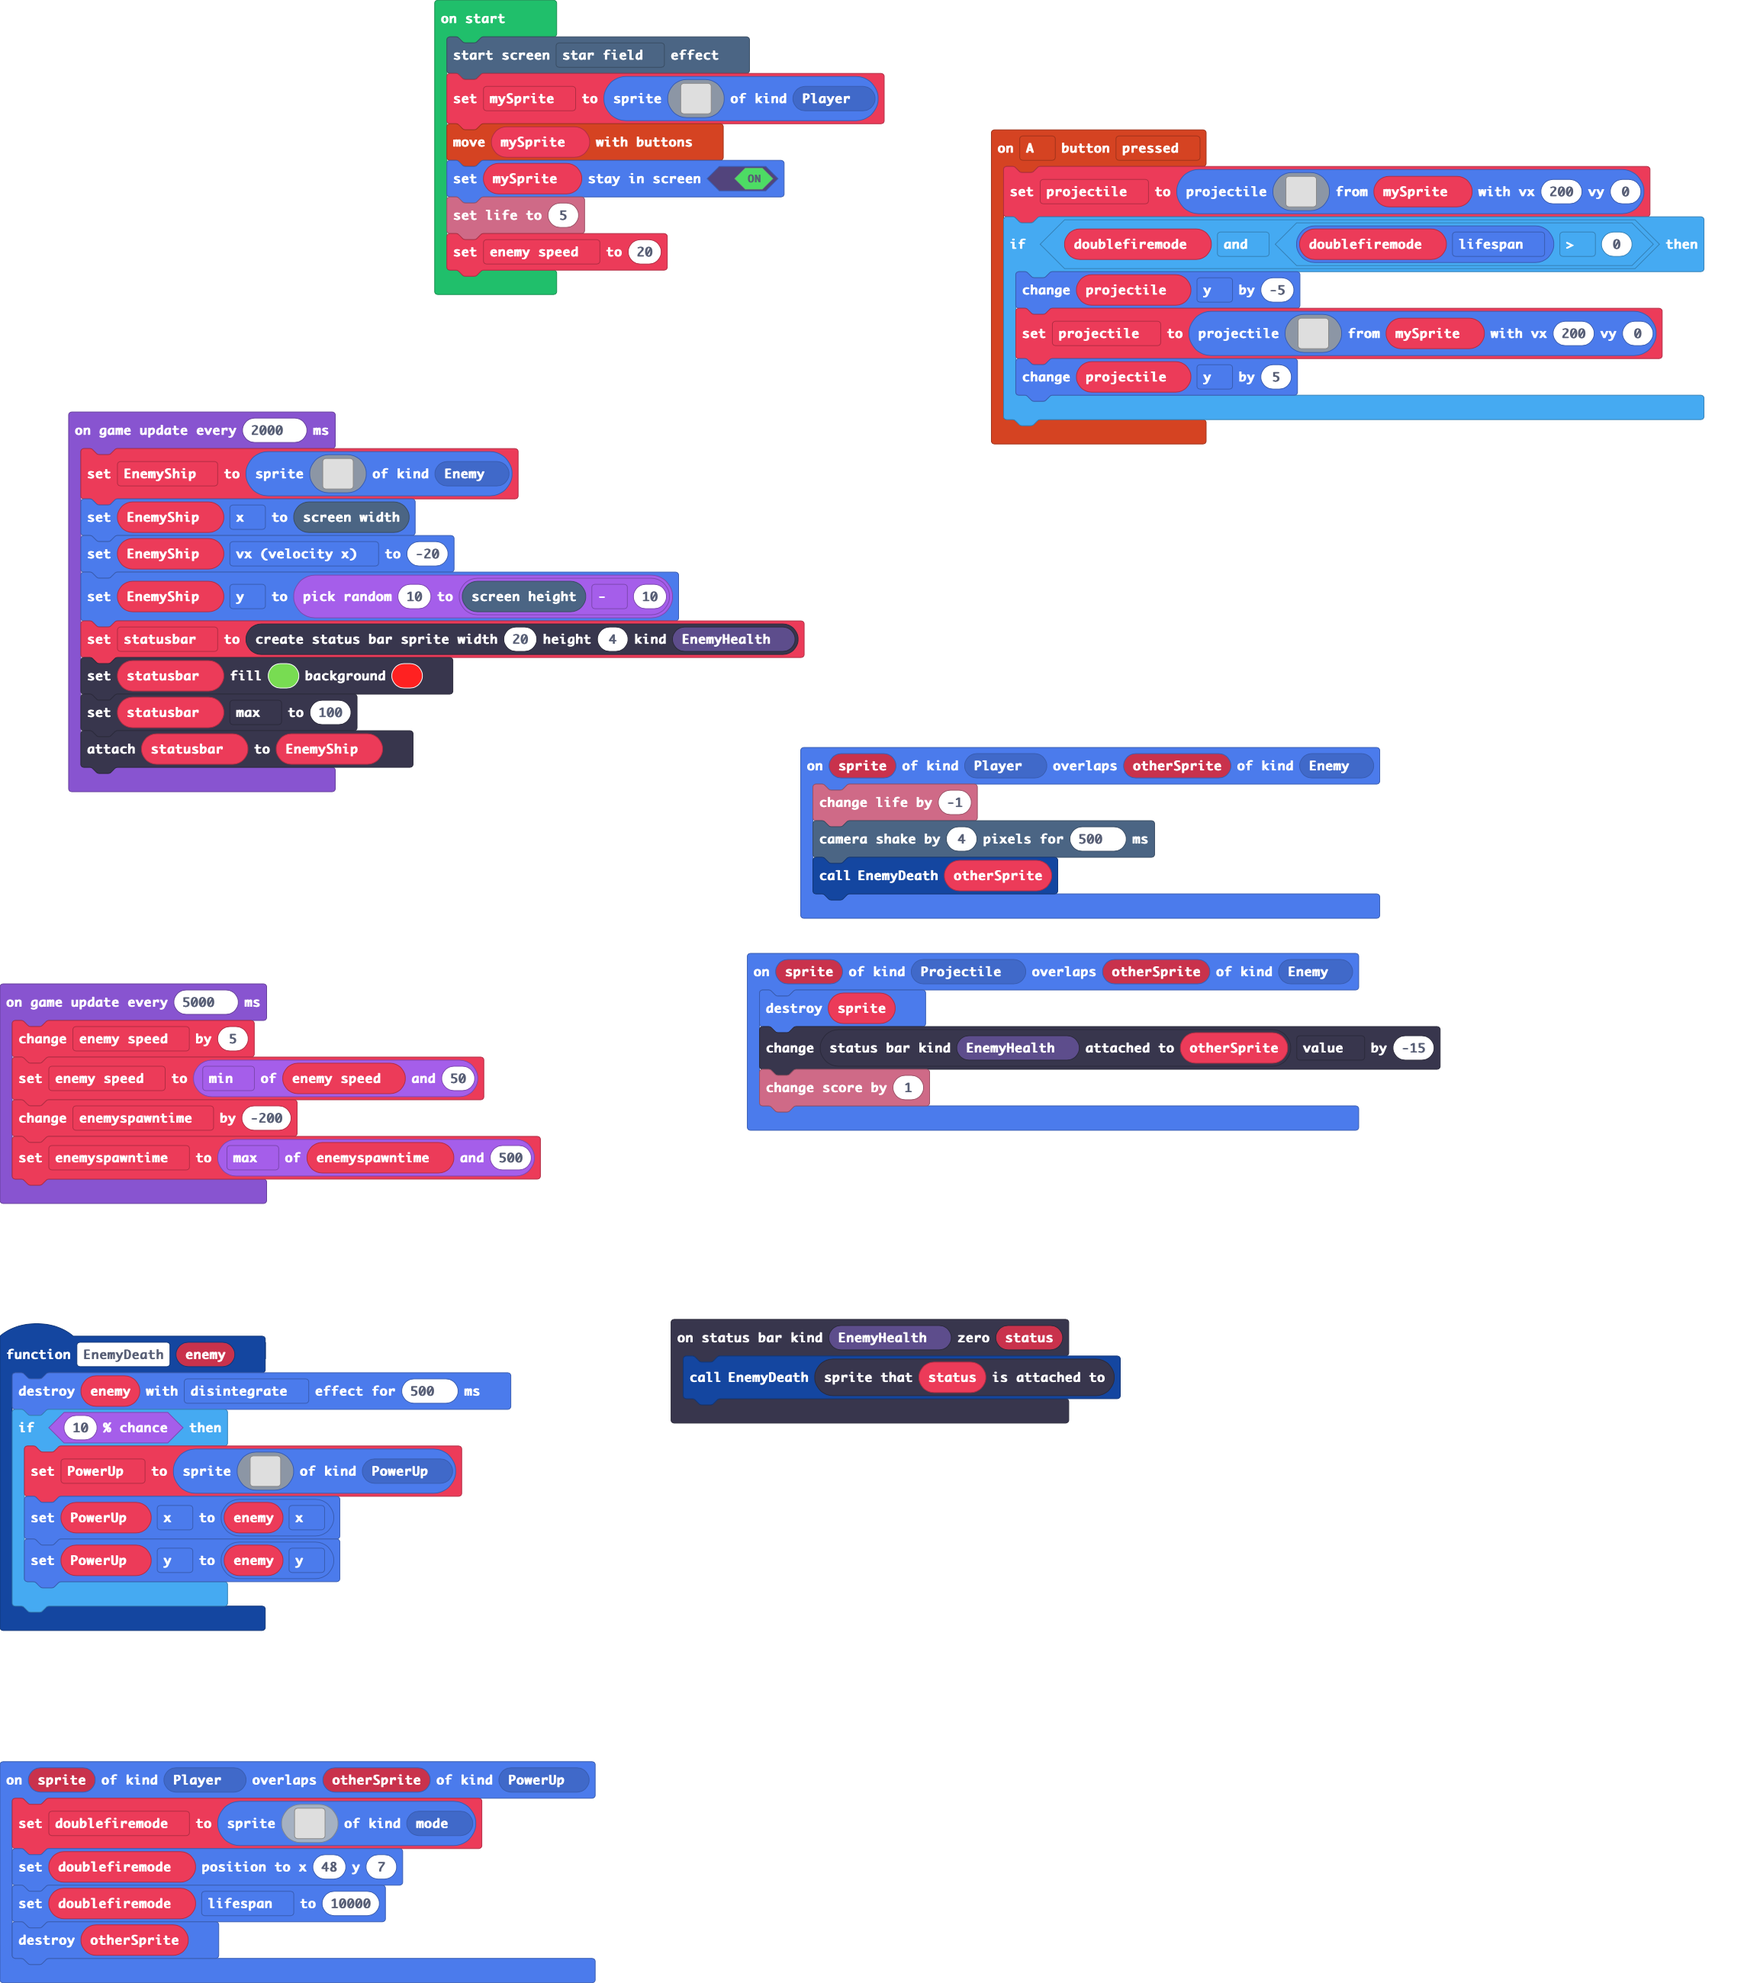
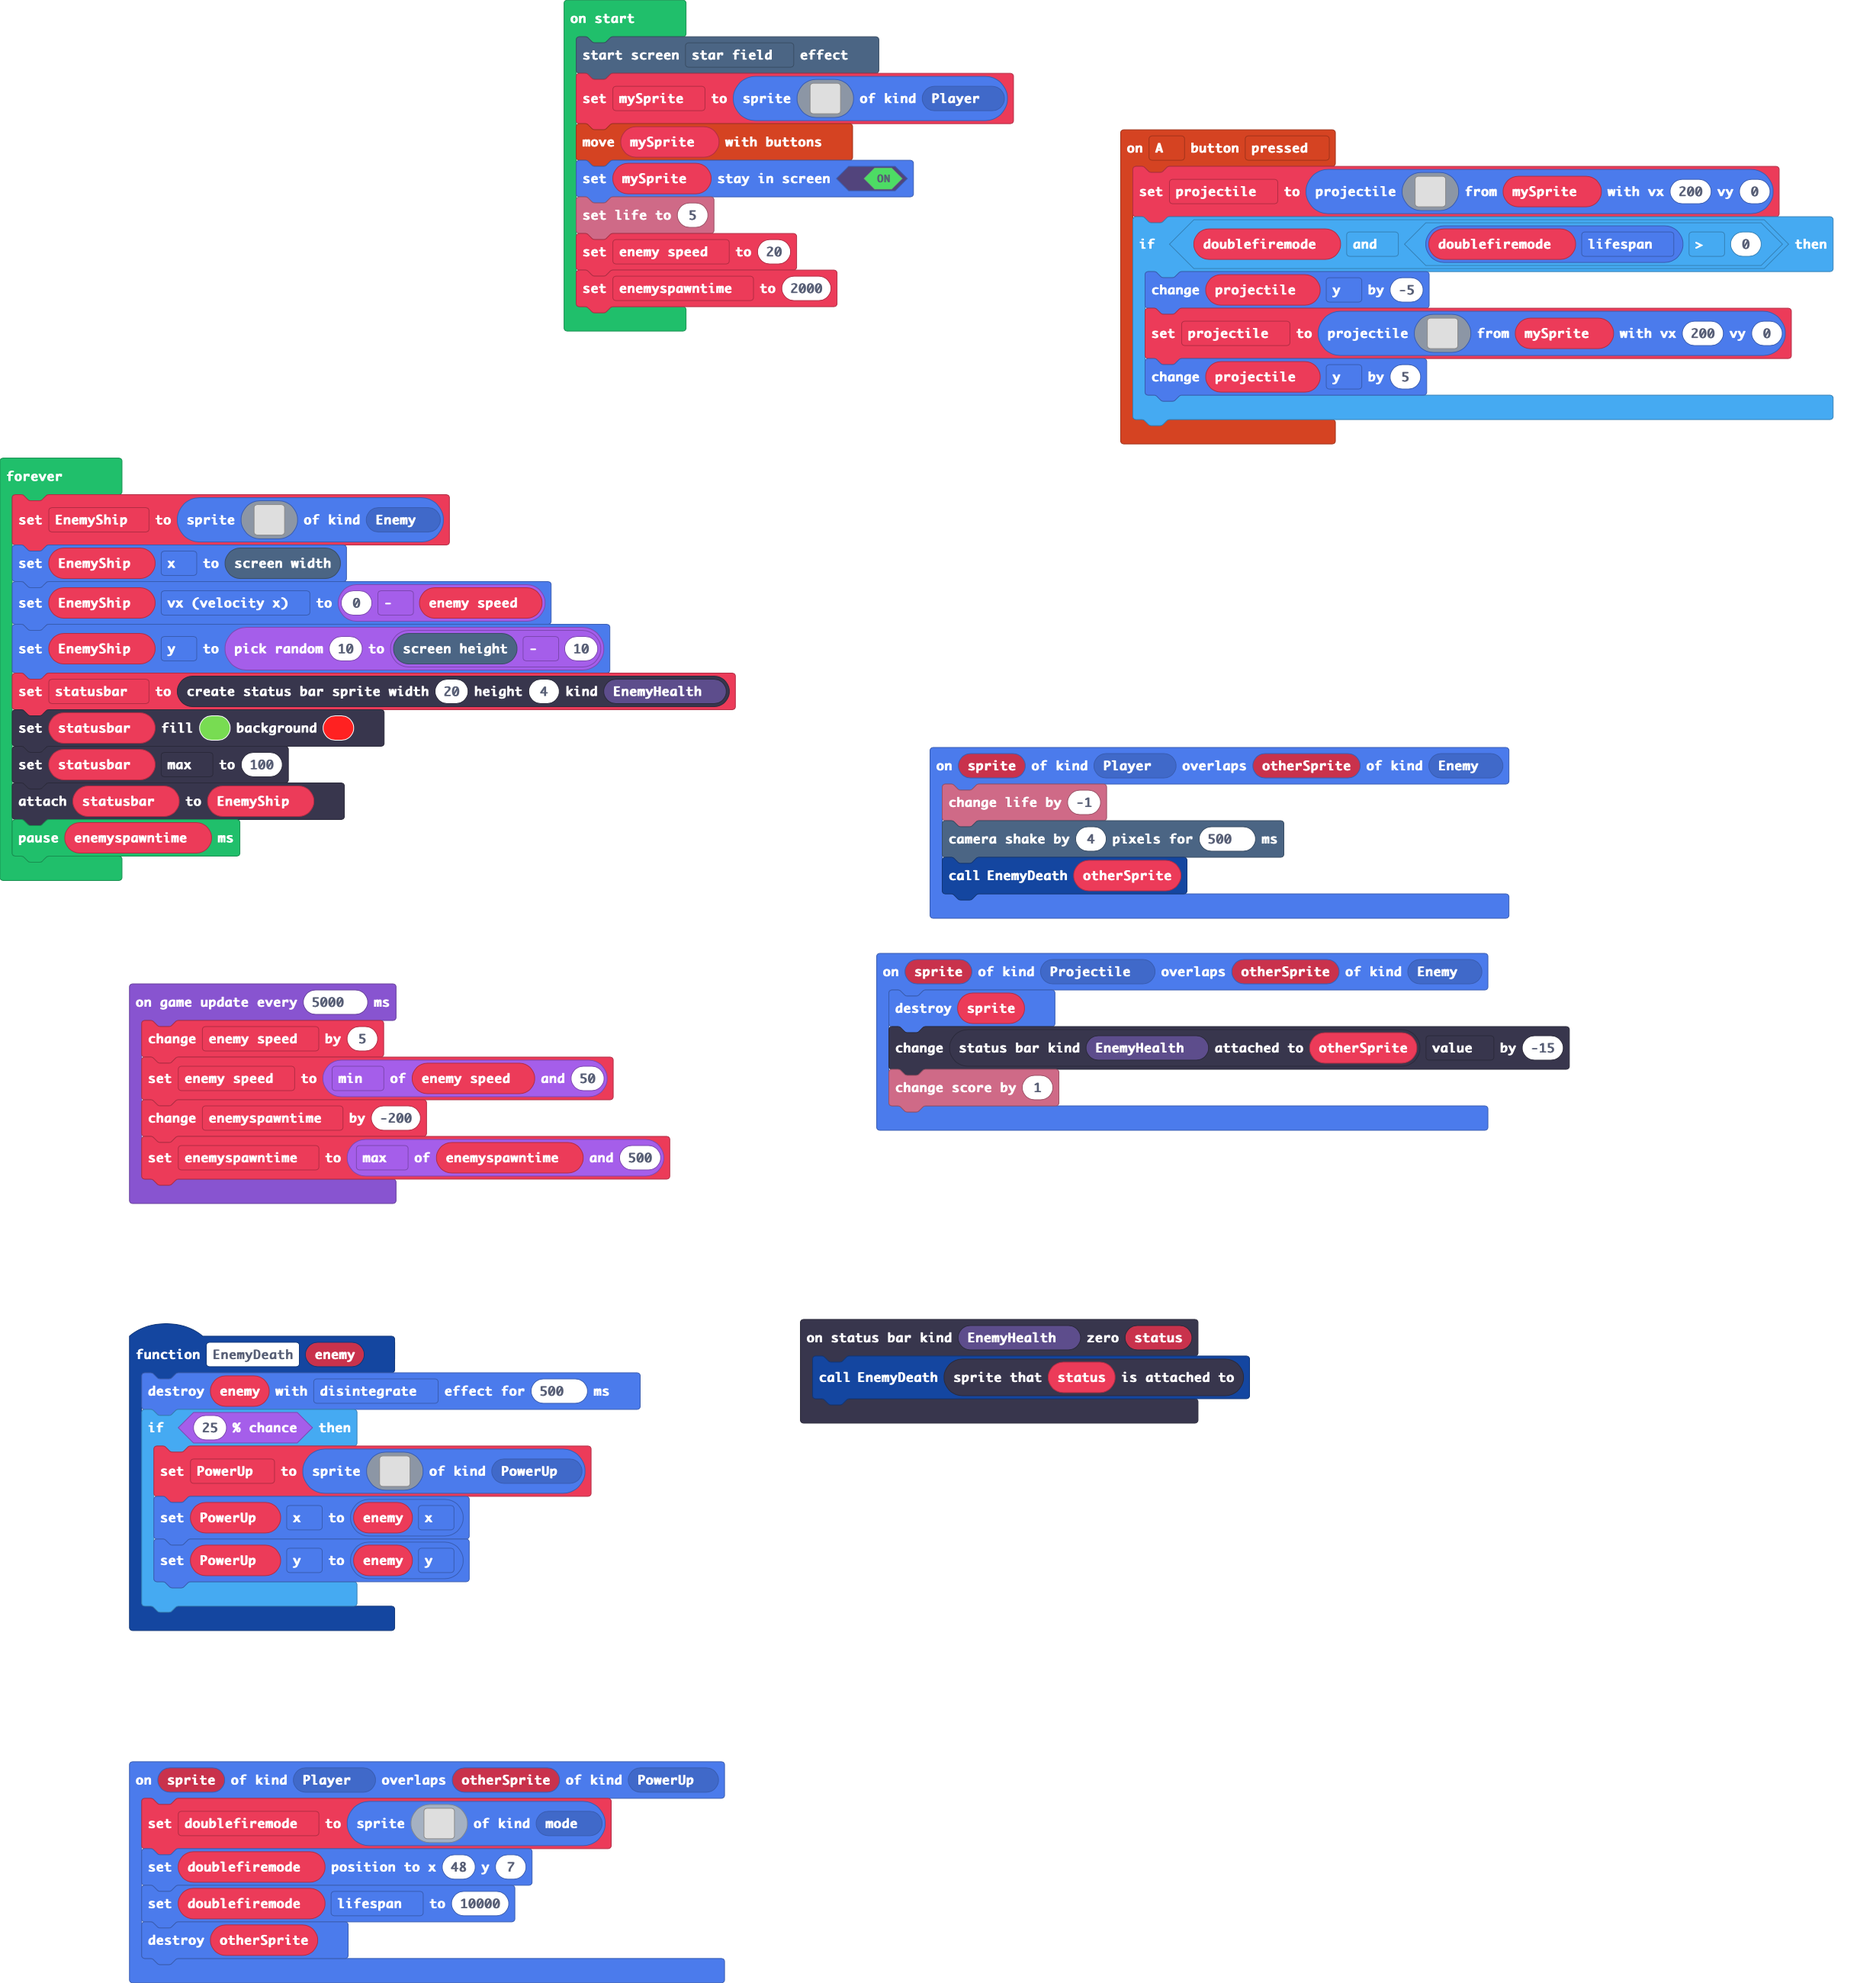
Update main.blocks, main.ts

diff --git a/main.ts b/main.ts
@@ -46,7 +46,7 @@ controller.A.onEvent(ControllerButtonEvent.Pressed, function () {
 })
 function EnemyDeath (enemy: Sprite) {
     enemy.destroy(effects.disintegrate, 500)
-    if (Math.percentChance(10)) {
+    if (Math.percentChance(25)) {
         PowerUp = sprites.create(img`
             . . . 8 8 8 8 8 8 8 . . . . . . 
             . 8 8 8 8 8 8 8 8 8 8 8 . . . . 
@@ -107,7 +107,6 @@ sprites.onOverlap(SpriteKind.Player, SpriteKind.Enemy, function (sprite, otherSp
 })
 let statusbar: StatusBarSprite = null
 let EnemyShip: Sprite = null
-let enemyspawntime = 0
 let PowerUp: Sprite = null
 let doublefiremode: Sprite = null
 let projectile: Sprite = null
@@ -135,13 +134,14 @@ controller.moveSprite(mySprite)
 mySprite.setStayInScreen(true)
 info.setLife(5)
 let enemy_speed = 20
+let enemyspawntime = 2000
 game.onUpdateInterval(5000, function () {
     enemy_speed += 5
     enemy_speed = Math.min(enemy_speed, 50)
     enemyspawntime += -200
     enemyspawntime = Math.max(enemyspawntime, 500)
 })
-game.onUpdateInterval(2000, function () {
+forever(function () {
     EnemyShip = sprites.create(img`
         . . . . . . . . 2 2 . . . . . . 
         . . . . . . . . 3 2 . . . . . . 
@@ -161,10 +161,11 @@ game.onUpdateInterval(2000, function () {
         . . . . . . . . . . . . . . . . 
         `, SpriteKind.Enemy)
     EnemyShip.x = scene.screenWidth()
-    EnemyShip.vx = -20
+    EnemyShip.vx = 0 - enemy_speed
     EnemyShip.y = randint(10, scene.screenHeight() - 10)
     statusbar = statusbars.create(20, 4, StatusBarKind.EnemyHealth)
     statusbar.setColor(7, 2)
     statusbar.max = 100
     statusbar.attachToSprite(EnemyShip)
+    pause(enemyspawntime)
 })
